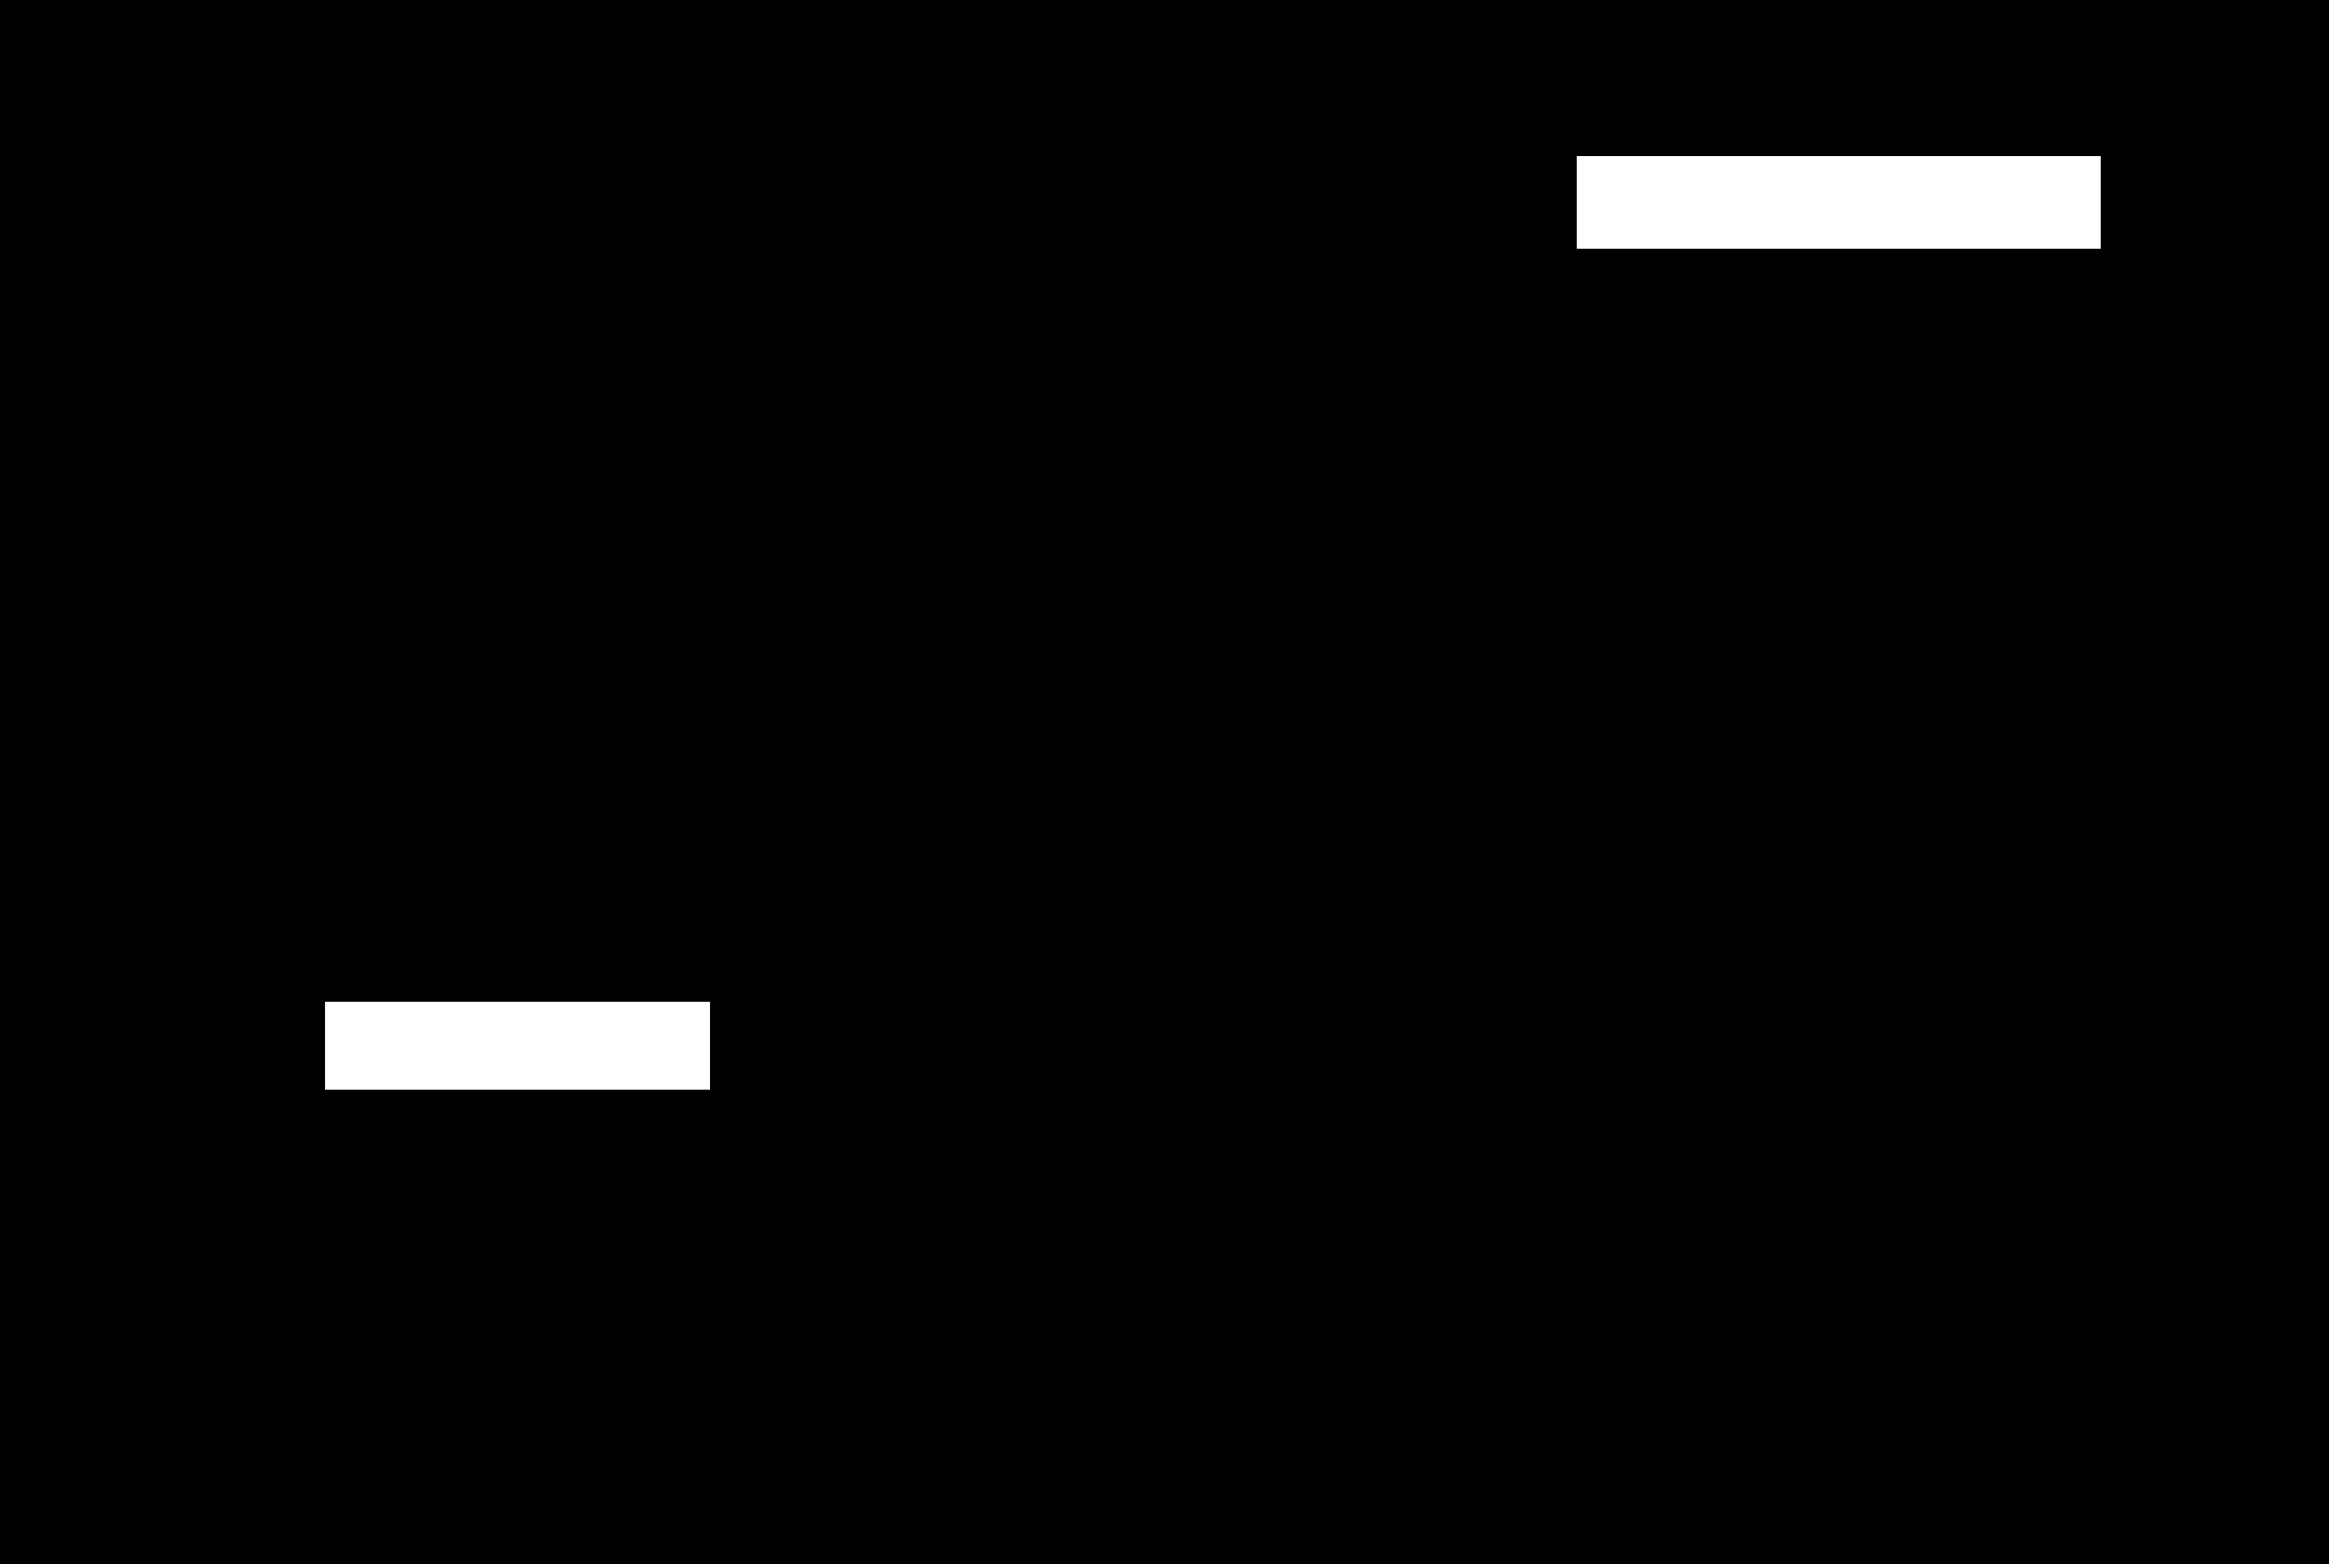
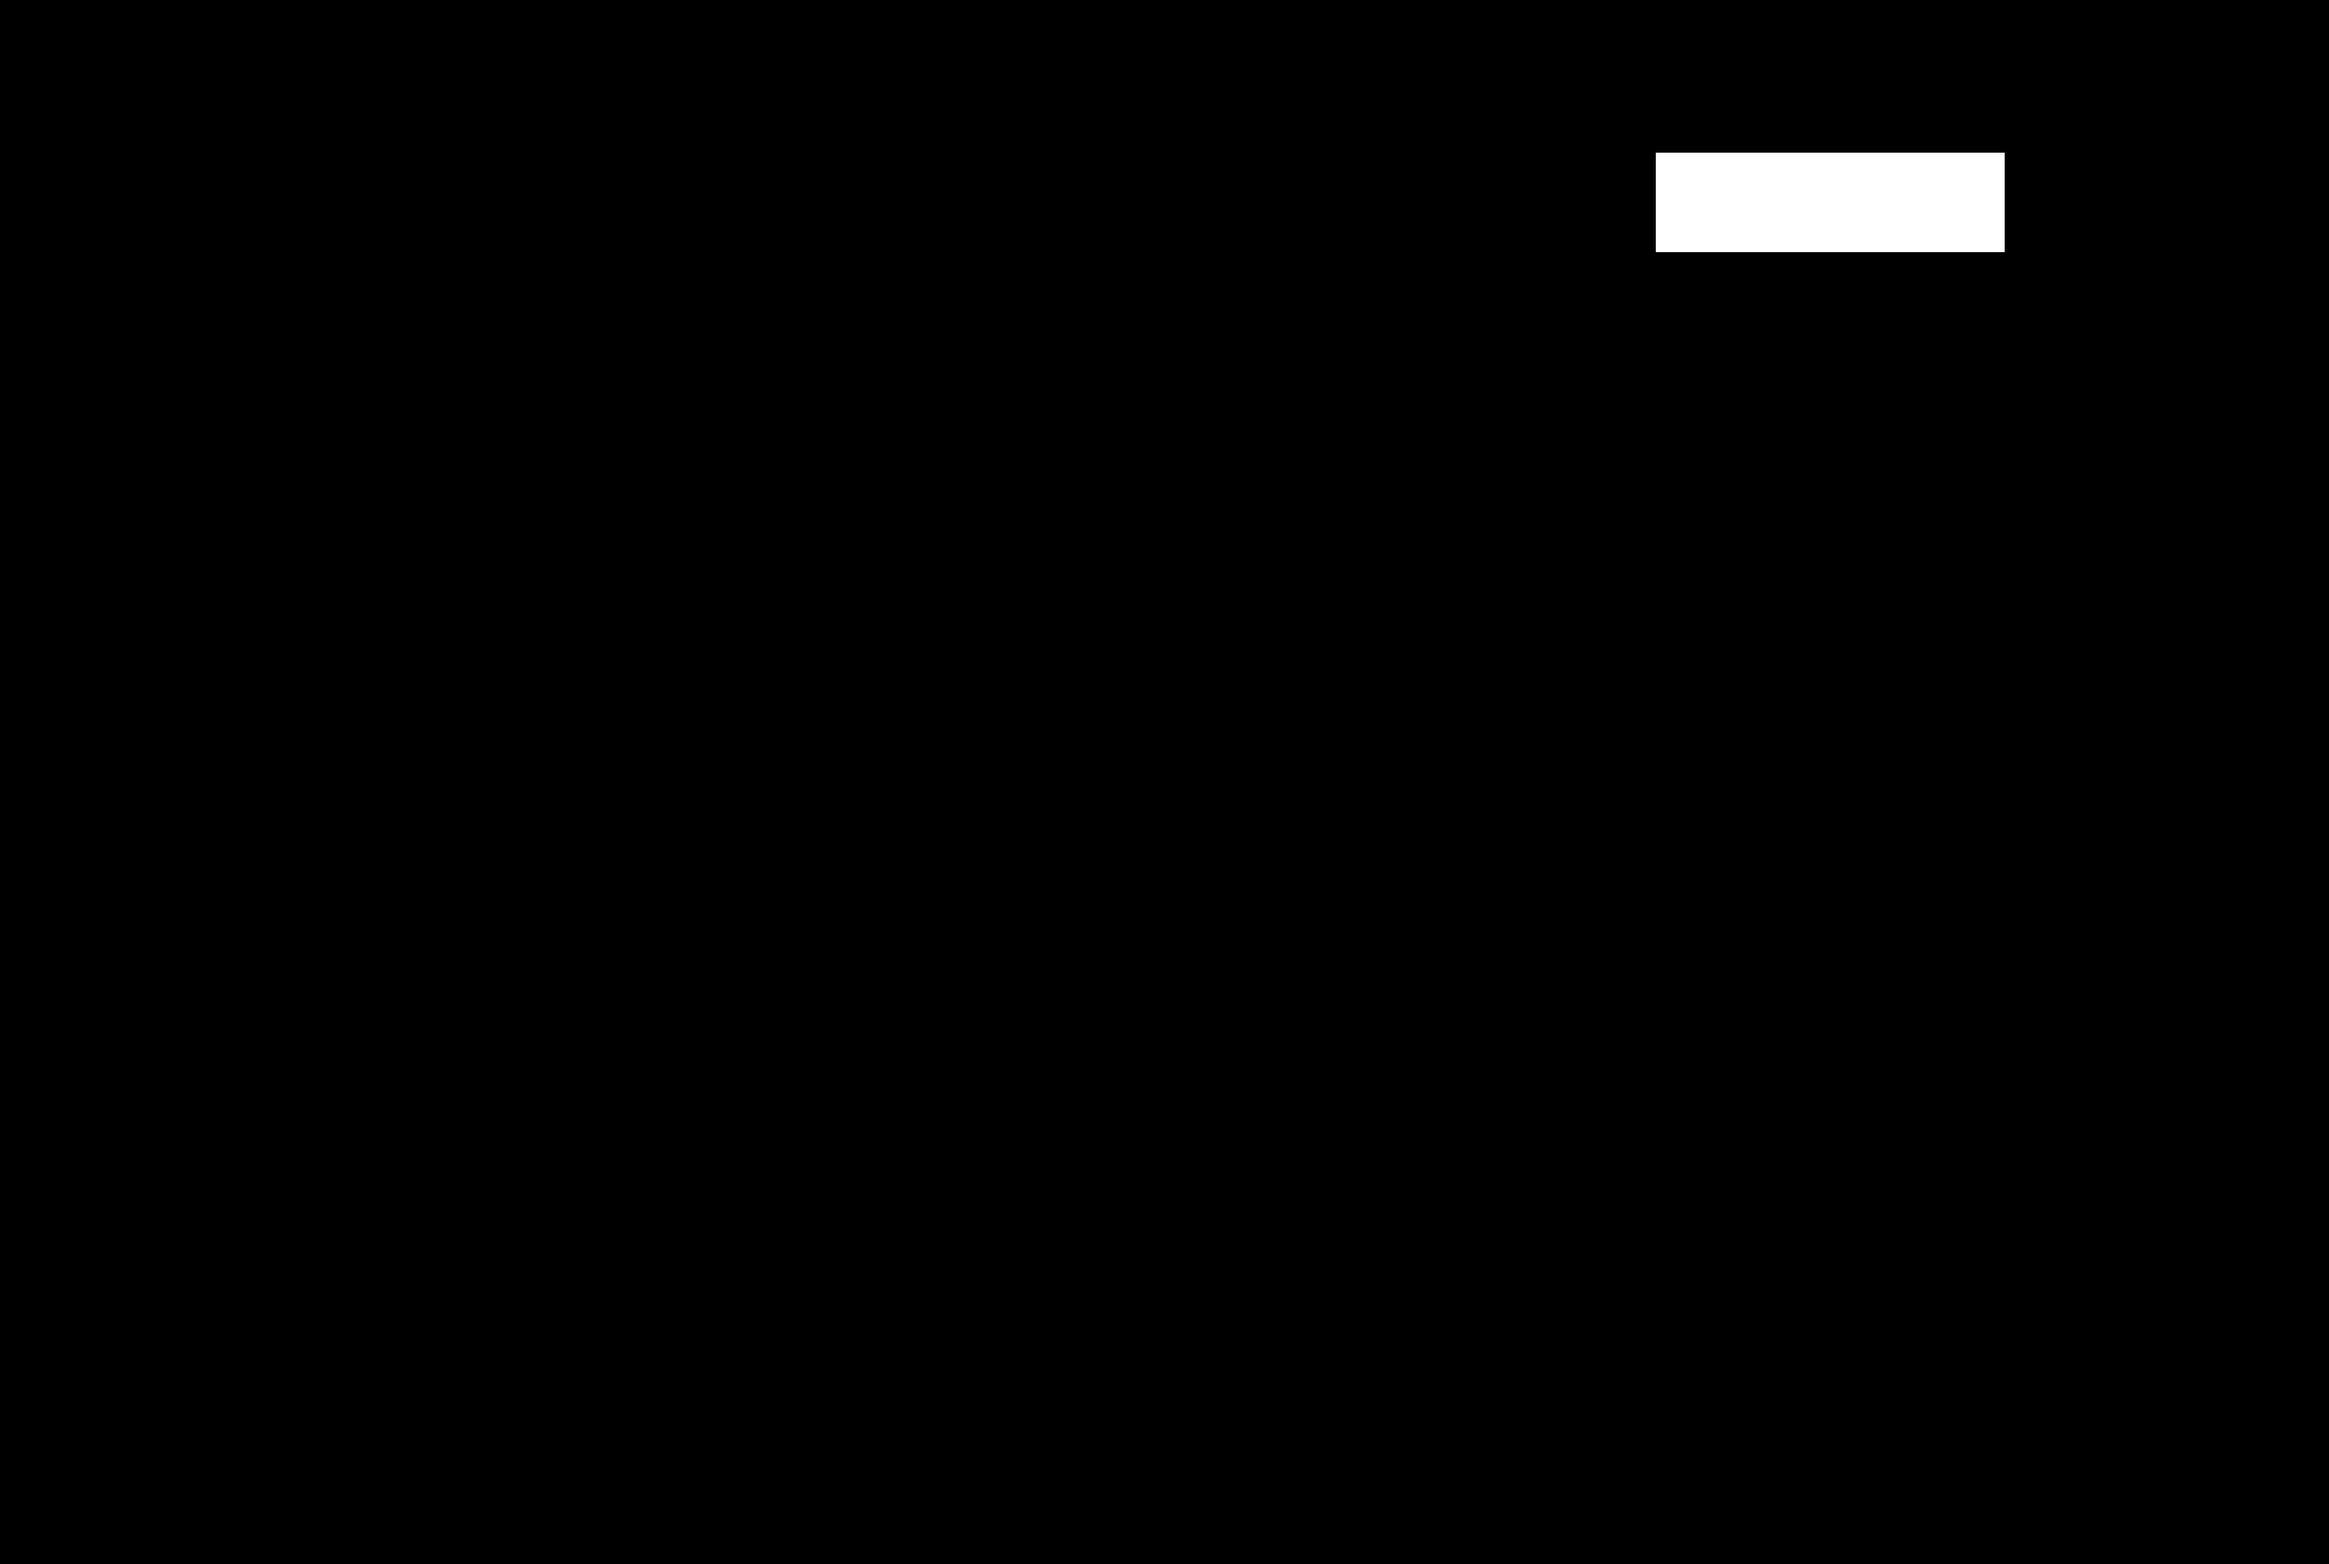
Improve text detection method

Changed region(s): [[0.124, 0.6187, 0.3101, 0.7115], [0.8373, 0.0928, 0.8994, 0.1856], [0.6513, 0.0928, 0.7133, 0.1856]]

diff --git a/week4/text.py b/week4/text.py
@@ -9,7 +9,7 @@ import time
 from imutils.object_detection import non_max_suppression
 
 
-def bounding_boxes_detection(image_path, mask_set_path, method, save_masks, idx):
+def bounding_boxes_detection(image_path, mask_set_path, method, save_masks, subpaintings, idx):
     """
     This function detects the bounding boxes of the text in all the images of a specific folder
 
@@ -17,6 +17,7 @@ def bounding_boxes_detection(image_path, mask_set_path, method, save_masks, idx)
     :param mask_set_path: path where the masks will be saved
     :param method: 1 for color segmentation, 2 for morphology operations, 3 for neural network
     :param save_masks: bool indicating if the masks need to be saved
+    :param subpaintings: compute if there are one or two subpaintings in the image: False for 1, True for 2
     :param idx: int containing the index of the image
     :return: list of bounding boxes from first image to last image. Each image contains a maximum of 2 bounding boxes.
 
@@ -195,6 +196,13 @@ def bounding_boxes_detection(image_path, mask_set_path, method, save_masks, idx)
             # boxes
             bounding_boxes = non_max_suppression(np.array(rects), probs=confidences)
 
+        # merge closed bounding boxes
+        for idx1, box1 in enumerate(bounding_boxes):
+            for idx2, box2 in enumerate(bounding_boxes):
+                if (abs(box1[3] - box2[3]) < 10) and (abs(box1[0] - box2[2]) < 30 or abs(box1[2] - box2[0]) < 30):
+                    bounding_boxes[idx1] = [min(box1[0], box2[0]), min(box1[1], box2[1]), max(box1[2], box2[2]), max(box1[3], box2[3])]
+                    bounding_boxes[idx2] = [min(box1[0], box2[0]), min(box1[1], box2[1]), max(box1[2], box2[2]), max(box1[3], box2[3])]
+
         # loop over the bounding boxes
         for (startX, startY, endX, endY) in bounding_boxes:
             # scale the bounding box coordinates based on the respective
@@ -210,7 +218,7 @@ def bounding_boxes_detection(image_path, mask_set_path, method, save_masks, idx)
             cv2.rectangle(orig, (startX, startY), (endX, endY), (0, 255, 0), 2)
             # box = [startX, startY, endX, endY]
             # bounding_boxes.append(box)
-            text_mask[startY : endY, (startX - int(0.05 * startX)) : (endX  + int(0.05 * endX))] = 255
+            text_mask[startY - 5 : endY + 5, startX - 5  : endX + 5] = 255
 
 
     #------------------------------   FINDING AND CHOOSING CONTOURS OF THE BINARY MASK   ---------------------------------------
@@ -221,13 +229,14 @@ def bounding_boxes_detection(image_path, mask_set_path, method, save_masks, idx)
     # Initialize parameters
     largest_area, second_largest_area, x_box_1, y_box_1, w_box_1, h_box_1, x_box_2, y_box_2, w_box_2, h_box_2 = 0, 0, 0, 0, 0, 0, 0, 0, 0, 0
     image_width = text_mask.shape[0]
+    image_area = text_mask.shape[0] * text_mask.shape[1]
 
     # From all the contours found, pick only the ones with rectangular shape and large area
     for cnt in contours:
         x, y, w, h = cv2.boundingRect(cnt)
         area = cv2.contourArea(cnt)
 
-        if (w / h > 3) & (w / h < 12) & (w > (0.1 * image_width)) & (area > second_largest_area):
+        if (w / h > 2.5) & (w / h < 15) & (w > (0.1 * image_width)) & (area > second_largest_area) & (area < 0.1 * image_area):
 
             if area > largest_area:
                 x_box_2, y_box_2, w_box_2, h_box_2 = x_box_1, y_box_1, w_box_1, h_box_1
@@ -243,20 +252,22 @@ def bounding_boxes_detection(image_path, mask_set_path, method, save_masks, idx)
     # cv2.rectangle(image, (x_box_2, y_box_2), (x_box_2 + w_box_2 - 1, y_box_2 + h_box_2 - 1), 255, 2)
 
     # Append the corners of the bounding boxes to the boxes list
+    text_mask[:,:] = 0
 
-    if (x_box_2 == y_box_2 == 0) | (image_path == 'images/qsd1_w3_denoised/'):
+    if subpaintings == False:
         box = [[x_box_1, y_box_1, x_box_1 + w_box_1, y_box_1 + h_box_1]]
         boxes.append(box)
-    elif x_box_1 < x_box_2:
-        box = [[x_box_1, y_box_1, x_box_1 + w_box_1, y_box_1 + h_box_1], [x_box_2, y_box_2, x_box_2 + w_box_2, y_box_2 + h_box_2]]
-        boxes.append(box)
-    else:
-        box = [[x_box_2, y_box_2, x_box_2 + w_box_2, y_box_2 + h_box_2], [x_box_1, y_box_1, x_box_1 + w_box_1, y_box_1 + h_box_1]]
-        boxes.append(box)
+        text_mask[y_box_1 : (y_box_1 + h_box_1), x_box_1 : (x_box_1 + w_box_1)] = 255
 
-    text_mask[:,:] = 0
-    text_mask[y_box_1 : (y_box_1 + h_box_1), x_box_1 : (x_box_1 + w_box_1)] = 255
-    text_mask[y_box_2 : (y_box_2 + h_box_2), x_box_2 : (x_box_2 + w_box_2)] = 255
+    if subpaintings == True:
+        if x_box_1 < x_box_2:
+            box = [[x_box_1, y_box_1, x_box_1 + w_box_1, y_box_1 + h_box_1], [x_box_2, y_box_2, x_box_2 + w_box_2, y_box_2 + h_box_2]]
+            boxes.append(box)
+        else:
+            box = [[x_box_2, y_box_2, x_box_2 + w_box_2, y_box_2 + h_box_2], [x_box_1, y_box_1, x_box_1 + w_box_1, y_box_1 + h_box_1]]
+            boxes.append(box)
+        text_mask[y_box_1 : (y_box_1 + h_box_1), x_box_1 : (x_box_1 + w_box_1)] = 255
+        text_mask[y_box_2 : (y_box_2 + h_box_2), x_box_2 : (x_box_2 + w_box_2)] = 255
 
     if save_masks:
         cv2.imwrite(mask_set_path + str(idx) + '.png', text_mask)

diff --git a/week4/main.py b/week4/main.py
@@ -159,25 +159,6 @@ if __name__ == '__main__':
         query_filenames = glob.glob(query_set_path + '/' + '*.jpg')
         query_filenames.sort()
 
-    # Detect bounding boxes for text (result_text) and compute IoU parameter
-    if text_removal == "True":
-        result_text = []
-        print("Detecting text in the images")
-        idx = 0
-        for image in query_filenames:
-            print("Getting text for query image " + str(idx))
-            result_text.extend(detect_bounding_boxes(image, mask_text_path, text_method, True, idx))
-            idx += 1
-
-        # Check if the text results need to be saved in a pickle file
-        if save_to_pickle_text:
-            print("Saving Results to Pickle File")
-            save_to_pickle_file(result_text, 'results/QST1/method2/text_boxes.pkl')
-
-        # Evaluation of the text Removal
-        if ground_truth_text_available:
-            IoU = evaluate_text(GT_text, result_text)
-            print("Intersection over Union: ", str(IoU))
 
     # Get query images histograms
     print("Getting Query Features")
@@ -185,6 +166,8 @@ if __name__ == '__main__':
     masks = {}
     masks_evaluation = {}
     number_query_elements = len(query_filenames)
+    result_text = []
+
 
     # Check the data structures needed to store the features
     if histogram_descriptors:
@@ -209,8 +192,15 @@ if __name__ == '__main__':
     for query_image in query_filenames:
         print("Getting Features for Query Image " + str(idx))
         if text_removal and not multiple_subimages:
+                        
+            # Get background masks
             masks[idx] = get_mask(query_image, masks_path, idx)
-            masks_evaluation[idx] = get_mask(query_image, masks_path, idx)
+            masks_evaluation[idx] = get_mask(query_image, masks_path, idx)    
+            
+            # Detect bounding boxes for text (result_text) and get the masks with text
+            print("Getting text for query image " + str(idx))
+            result_text.extend(detect_bounding_boxes(query_image, mask_text_path, text_method, True, False, idx))
+
             text_mask = masks[idx]
             text_mask[result_text[idx][0][1]:result_text[idx][0][3], result_text[idx][0][0]:result_text[idx][0][2]] = 0
                 
@@ -226,14 +216,22 @@ if __name__ == '__main__':
 
         elif text_removal and multiple_subimages:
 
-            # Get image mask
+            # Get background masks
             masks[idx] = get_mask(query_image, masks_path, idx)
-            masks_evaluation[idx] = get_mask(query_image, masks_path, idx)
-            text_mask = masks[idx]
-            for result_index in range(0, len(result_text[idx])):
-                text_mask[result_text[idx][result_index][1]:result_text[idx][result_index][3], result_text[idx][result_index][0]:result_text[idx][result_index][2]] = 0
-
+            masks_evaluation[idx] = get_mask(query_image, masks_path, idx)  
             output = paintings_detection(query_image, masks_evaluation[idx])
+
+            # Detect bounding boxes for text (result_text) and get the masks with text
+            print("Getting text for query image " + str(idx))
+            if output > 0:
+                result_text.extend(detect_bounding_boxes(query_image, mask_text_path, text_method, True, True, idx))
+            else:
+                result_text.extend(detect_bounding_boxes(query_image, mask_text_path, text_method, True, False, idx))
+
+            # Get image mask
+            text_mask = masks[idx]
+            text_mask[result_text[idx][0][1]:result_text[idx][0][3], result_text[idx][0][0]:result_text[idx][0][2]] = 0
+
             if output > 0:
                 number_subimages[query_features_counter] = 2
                 number_subimages[query_features_counter + 1] = 0
@@ -303,6 +301,16 @@ if __name__ == '__main__':
                 query_ocrs[idx] = get_text(query_image, 'text/text_masks/', text_method, idx, None, None, True)
 
         idx += 1
+
+    # Check if the text results need to be saved in a pickle file
+    if save_to_pickle_text:
+        print("Saving Results to Pickle File")
+        save_to_pickle_file(result_text, 'results/QST1/method2/text_boxes.pkl')
+
+    # Evaluation of the text Removal
+    if ground_truth_text_available:
+        IoU = evaluate_text(GT_text, result_text)
+        print("Intersection over Union: ", str(IoU))
 
     # Compute similarities to museum images for each image
     if multiple_subimages:

diff --git a/week4/evaluation.py b/week4/evaluation.py
@@ -227,7 +227,7 @@ def evaluate_mask(annotation_mask, result_mask, idx):
     return mask_evaluation(annotation_mask, result_mask, idx)
 
 
-def detect_bounding_boxes(path, mask_set_path, method, save_masks, idx):
+def detect_bounding_boxes(path, mask_set_path, method, save_masks, subpaintings, idx):
     """
     This function detects the bounding boxes of the text in all the images of a specific folder
 
@@ -235,6 +235,7 @@ def detect_bounding_boxes(path, mask_set_path, method, save_masks, idx):
     :param mask_set_path: path where the masks need to be saved
     :param method: 1 for color segmentation, 2 for morphology operations, 3 for neural network
     :param save_masks: boolean indicating if the masks need to be saved
+    :param subpaintings: compute if there are one or two subpaintings in the image: False for 1, True for 2
     :param idx: int indicating the index of the image
     :return: list of bounding boxes from first image to last image. Each image contains a maximum of 2 bounding boxes.
     
@@ -245,7 +246,7 @@ def detect_bounding_boxes(path, mask_set_path, method, save_masks, idx):
         [lowest_pixel_x, lowest_pixel_y, highest_pixel_x, highest_pixel_y] 
     """
 
-    return bounding_boxes_detection(path, mask_set_path, method, save_masks, idx)
+    return bounding_boxes_detection(path, mask_set_path, method, save_masks, subpaintings, idx)
 
 
 def evaluate_text(GT_bounding_boxes, result_bounding_boxes):
